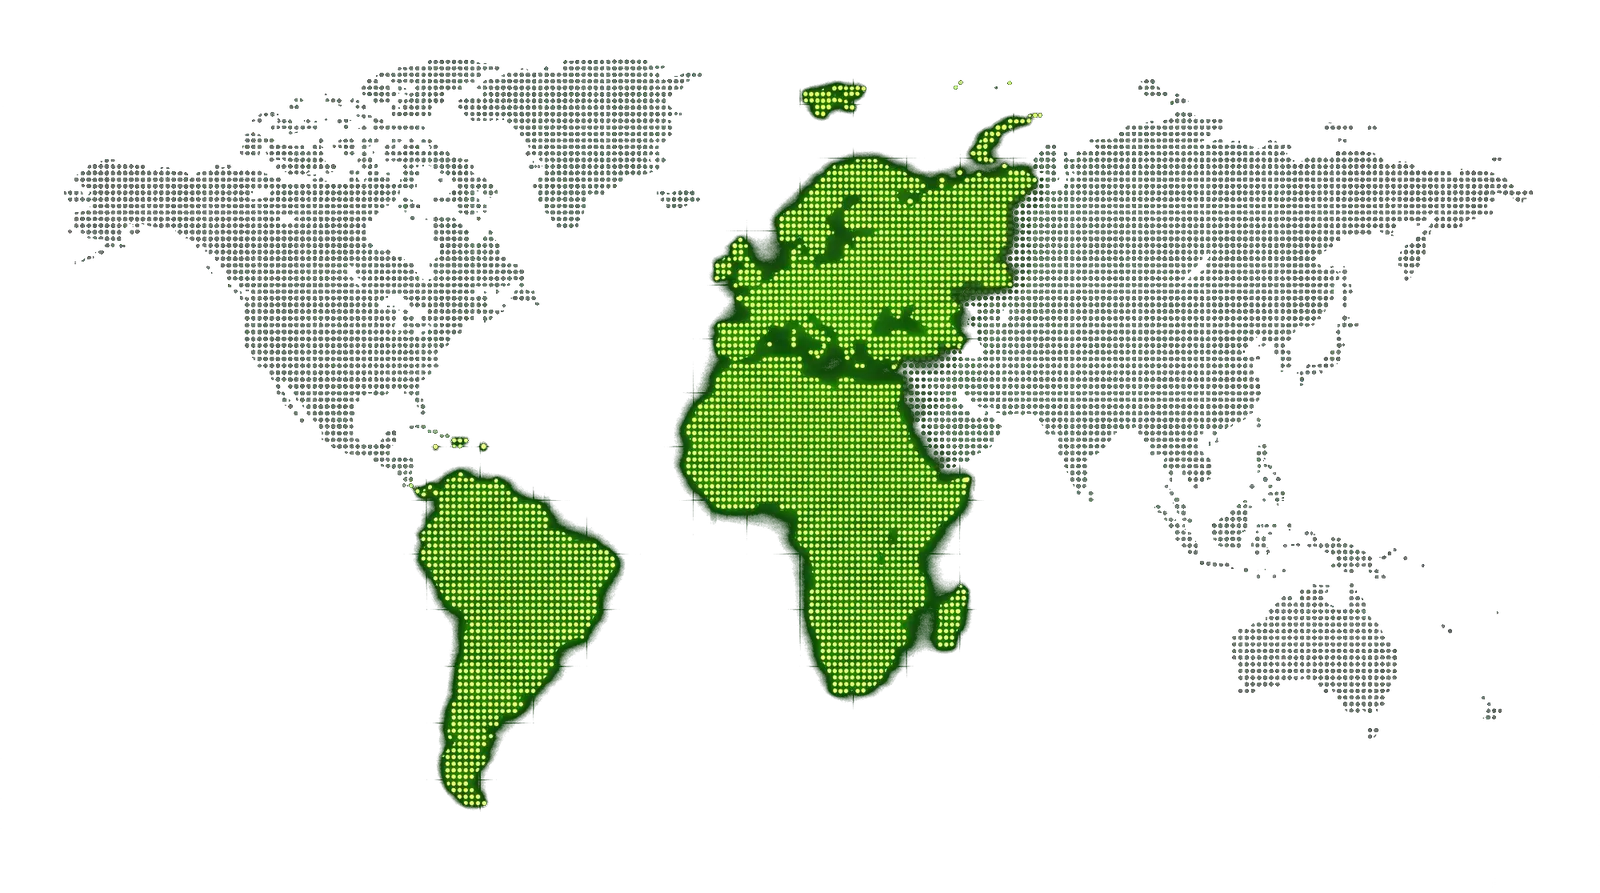
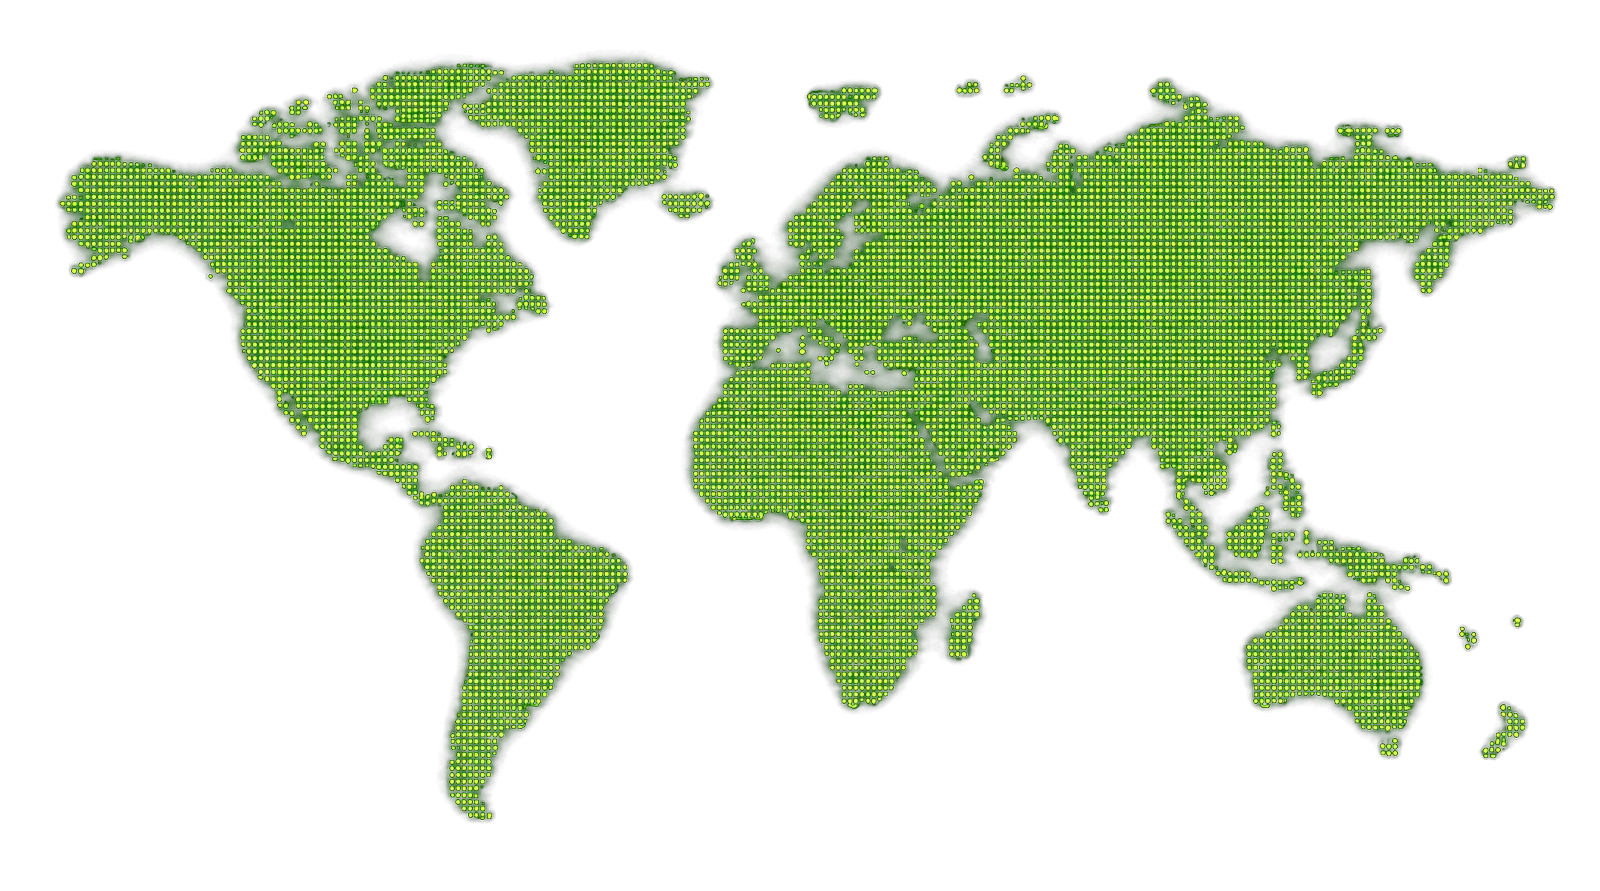
Replace global operations map with uniform dotted world map
New source has all continents lit in the same lime green (no per-region
highlight). Black background knocked out to true alpha via luminance so
it superimposes over the #16291e band, matching the previous map's blend.
Alt text updated to drop the region-highlight description.

diff --git a/src/components/site/cinematic-tagline.tsx b/src/components/site/cinematic-tagline.tsx
@@ -158,7 +158,7 @@ export function CinematicTagline() {
           </span>
           <img
             src="/images/global-operations-map.webp"
-            alt="INOR global areas of operation, with Europe, Africa and South America highlighted"
+            alt="INOR global areas of operation shown across a dotted world map"
             className="h-auto w-full"
             style={{ maxWidth: "100%" }}
             loading="lazy"